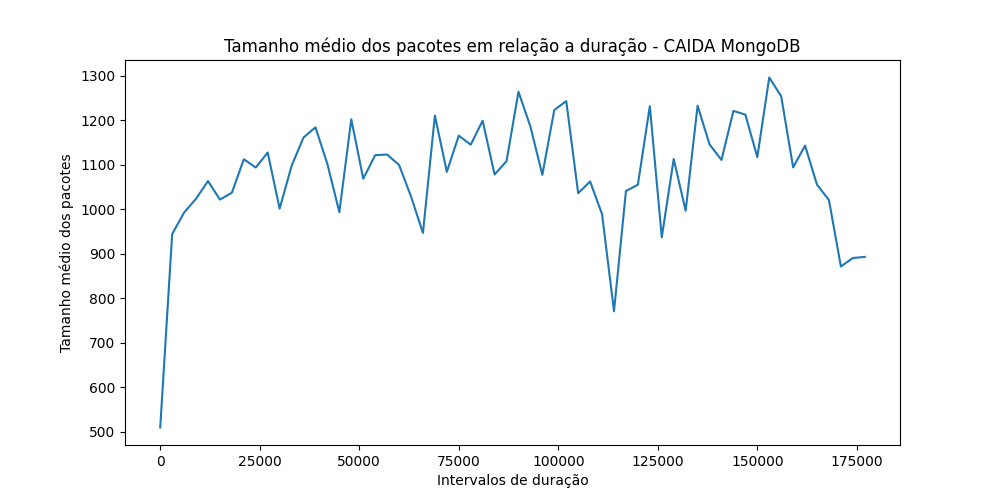
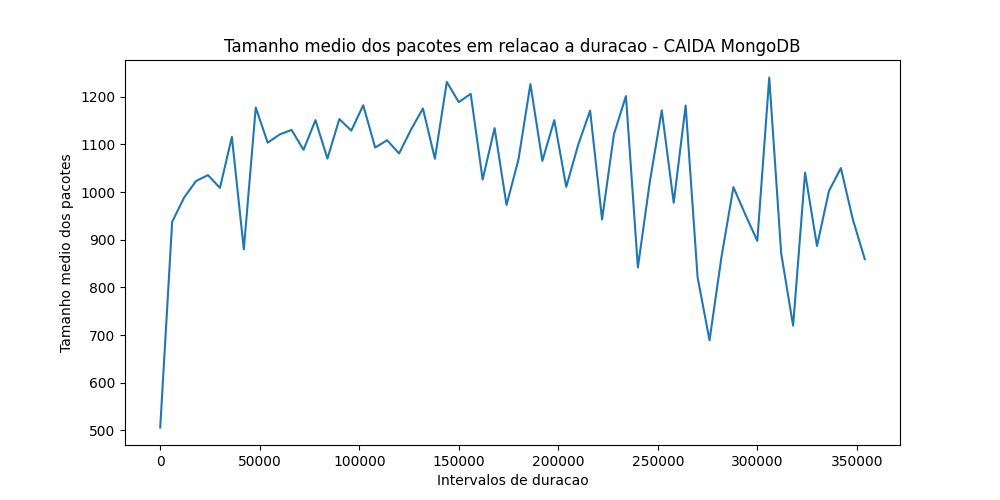
feat: gerando os graficos para 5 minutos

diff --git a/AvaliadorFluxo/PreProcessameto/UnificadorFluxos.py b/AvaliadorFluxo/PreProcessameto/UnificadorFluxos.py
@@ -7,13 +7,15 @@ FILES_FLUXOS = [
     './Datasets/Fluxos/CAIDA/caida02.txt',
     './Datasets/Fluxos/CAIDA/caida03.txt',
     './Datasets/Fluxos/CAIDA/caida04.txt',
+    './Datasets/Fluxos/CAIDA/caida05.txt',
+    './Datasets/Fluxos/CAIDA/caida06.txt',
 ]
 
 DATA_BASE_NAME = "fluxos_database"
 COLLECTION_NAME = "caida_collection"
 TIMEOUT_LIMIT = 20 * 1000  # 20 segundos em milissegundos
 OFFSET = 60 * 1000         # 60 segundos em milissegundos
-BATCH_SIZE = 1000000
+BATCH_SIZE = 500000
 
 # Conecta ao MongoDB
 mongo_client = pymongo.MongoClient("mongodb://localhost:27017/")
@@ -119,3 +121,8 @@ for file_name in FILES_FLUXOS:
         print("Total de fluxos com tempo negativo:", time_to_end_less_than_zero)
 
         actual_offset += OFFSET
+
+
+# Executa o código GeraGraficosMongo.py em seguida em python3
+import os
+os.system("python -u ./AvaliadorFluxo/GeraGraficosMongo.py") 
